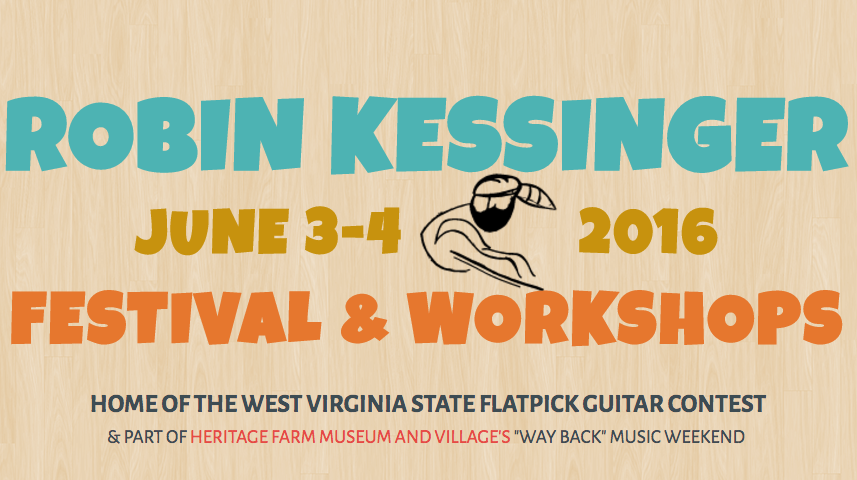
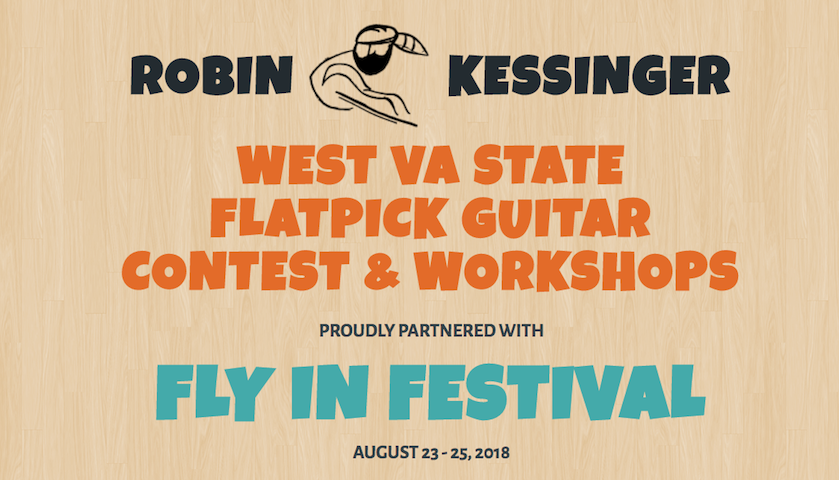
updated fb tags & image

diff --git a/source/resources/views/tags/fb.blade.php b/source/resources/views/tags/fb.blade.php
@@ -1,5 +1,5 @@
 <meta property="og:url" content="http://www.robinkessingerfestival.org" />
 <meta property="og:type" content="article" />
-<meta property="og:title" content="Robin Kessinger Festival & Workshops" />
-<meta property="og:description" content="Home of the West Virginia state flatpick guitar contest & part of Heritage Farm's 'way back' music weekend." />
-<meta property="og:image" content="http://www.robinkessingerfestival.org/images/fb.png?v=1" />
+<meta property="og:title" content="Robin Kessinger West VA State Flatpick Guitar Contest & Workshops" />
+<meta property="og:description" content="Proudly partnered with the Fly In Festival, Aug 23-25 2018" />
+<meta property="og:image" content="http://www.robinkessingerfestival.org/images/fb.png?v=2" />

diff --git a/source/resources/views/index.blade.php b/source/resources/views/index.blade.php
@@ -4,8 +4,8 @@
 <head>
     <meta charset="utf-8">
     <meta http-equiv="x-ua-compatible" content="ie=edge">
-    <title>Robin Kessinger Festival &amp; Workshops</title>
-    <meta name="description" content="Home of the West Virginia state flatpick guitar contest &amp; part of Heritage Farm's \"way back\" music weekend.">
+    <title>Robin Kessinger West VA State Flatpick Guitar Contest & Workshops</title>
+    <meta name="description" content="Proudly partnered with the Fly In Festival, Aug 23-25 2018">
     <meta name="viewport" content="width=device-width, initial-scale=1.0, maximum-scale=1.0, user-scalable=no">
     <meta name="HandheldFriendly" content="true">
 
